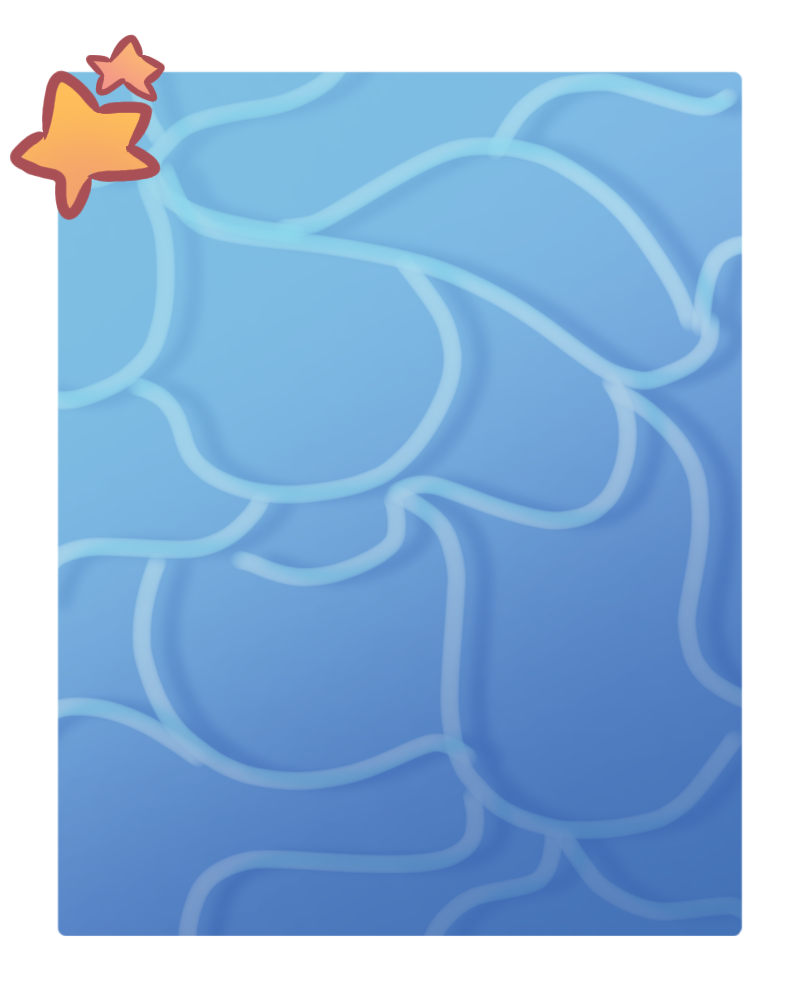
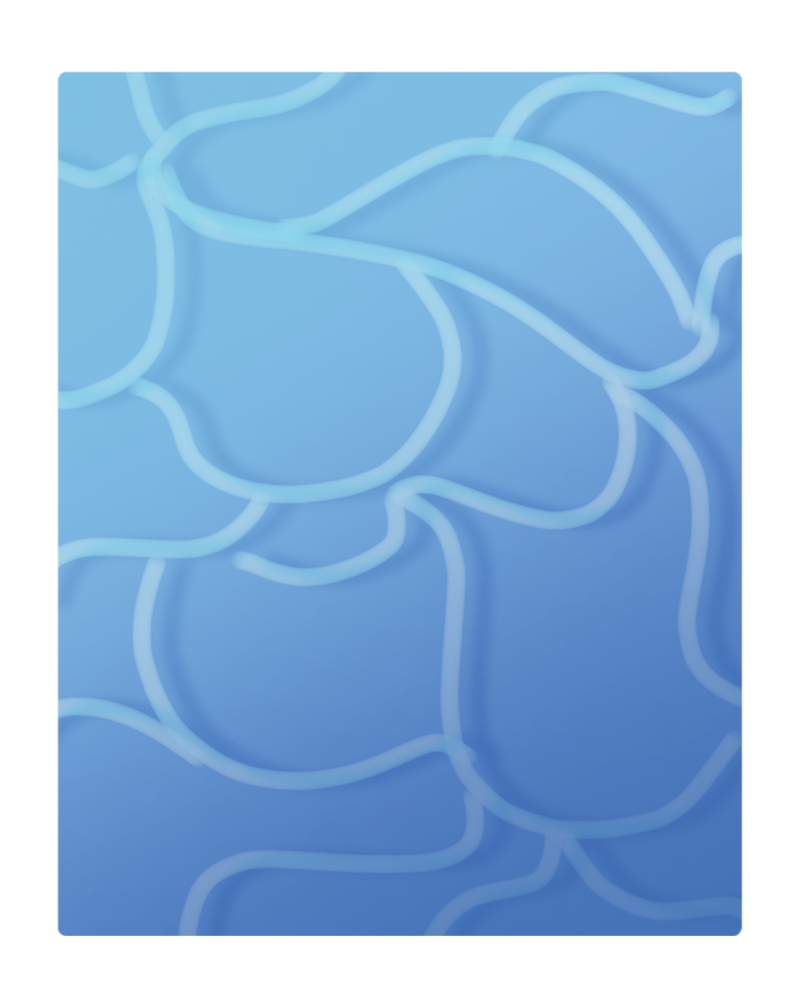
a bit of a revamp

Changed region(s): [[0.0, 0.031, 0.2188, 0.217]]

diff --git a/src/styles/global.css b/src/styles/global.css
@@ -561,9 +561,6 @@ button:focus-visible {
   background-position: center;
   overflow: hidden;
 }
-.card-ocean {
-  background-image: url('/images/cards/card_ocean.png');
-}
 .card-border {
   background-image: url('/images/cards/card_border.png');
 }
@@ -575,20 +572,6 @@ button:focus-visible {
 }
 .update-card-scroll .update-list {
   font-size: 0.85rem;
-}
-/* card_ocean's art is busy edge-to-edge, so the text gets its own frosted panel
-   that follows the theme tokens (was a hardcoded white rgba, which stayed
-   white in dark mode while the text above it flipped to light ink) */
-.scroll-ocean {
-  top: 22%;
-  left: 8%;
-  right: 8%;
-  bottom: 12%;
-  background: var(--glass-fill-strong);
-  backdrop-filter: blur(3px);
-  -webkit-backdrop-filter: blur(3px);
-  box-shadow: 0 2px 8px rgba(26,18,46,0.2);
-  transition: background var(--theme-transition) ease;
 }
 /* card_border already has a pale interior, so text sits straight on it */
 .scroll-border {
@@ -1955,15 +1938,40 @@ h1 {
   transform: translate(-50%, calc(-100% - 11px)) scale(1);
 }
 
-/* friend links / webring buttons — classic 88x31s */
-.friend-grid {
-  display: flex;
-  flex-wrap: wrap;
-  gap: 8px;
+/* friend links / webring buttons — classic 88x31s, scrolling right-to-left
+   like an old-web marquee. The track holds the button list twice back to
+   back (see MiscColumn.astro); animating it left by exactly one copy's
+   width means the instant it "runs out," the second copy is already sitting
+   exactly where the first one started, so the loop has no visible seam. */
+.friend-marquee {
+  overflow: hidden;
   margin-bottom: 4px;
+  /* soft fade at both edges instead of an abrupt clip, so buttons ease in
+     from the right and out to the left rather than popping in/out */
+  mask-image: linear-gradient(to right, transparent, black 20px, black calc(100% - 20px), transparent);
+  -webkit-mask-image: linear-gradient(to right, transparent, black 20px, black calc(100% - 20px), transparent);
+}
+.friend-marquee-track {
+  display: flex;
+  width: max-content;
+  gap: 8px;
+  animation: friend-marquee-scroll 24s linear infinite;
+}
+.friend-marquee:hover .friend-marquee-track {
+  animation-play-state: paused;
+}
+@keyframes friend-marquee-scroll {
+  from { transform: translateX(0); }
+  to { transform: translateX(-50%); }
+}
+@media (prefers-reduced-motion: reduce) {
+  .friend-marquee-track {
+    animation: none;
+  }
 }
 .friend-btn {
   display: block;
+  flex-shrink: 0;
   width: 88px;
   height: 31px;
   border-radius: 3px;
@@ -1979,6 +1987,17 @@ h1 {
 .friend-btn:hover {
   transform: translateY(-2px);
   box-shadow: 0 4px 8px rgba(26, 18, 46, 0.3);
+}
+
+/* BubbleDivider's own default (26px top+bottom) is sized for the wider main
+   content column — inside this narrow sidebar window it reads as a big gap
+   next to "grab my button". #friend-links needs an ID in the selector (not
+   just .bubble-divider) to reliably outrank the component's own scoped
+   style, which Astro compiles to something like
+   .bubble-divider[data-astro-cid-xxx] — higher specificity than a bare
+   class selector would have. */
+#friend-links .bubble-divider {
+  margin: 10px 0;
 }
 
 /* grab-my-button embed snippet */
